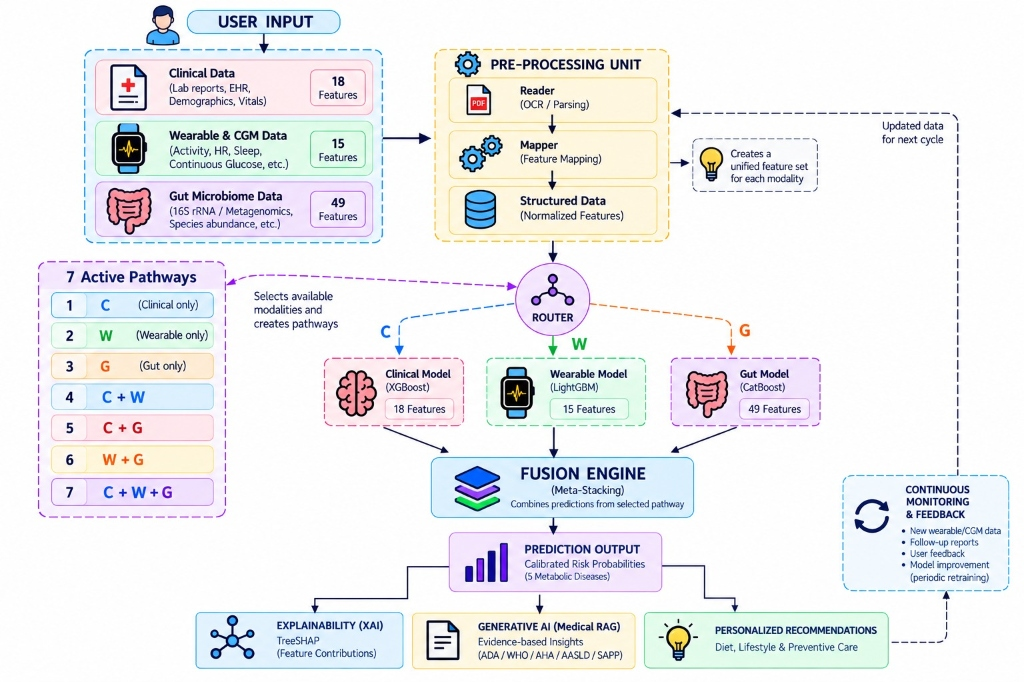
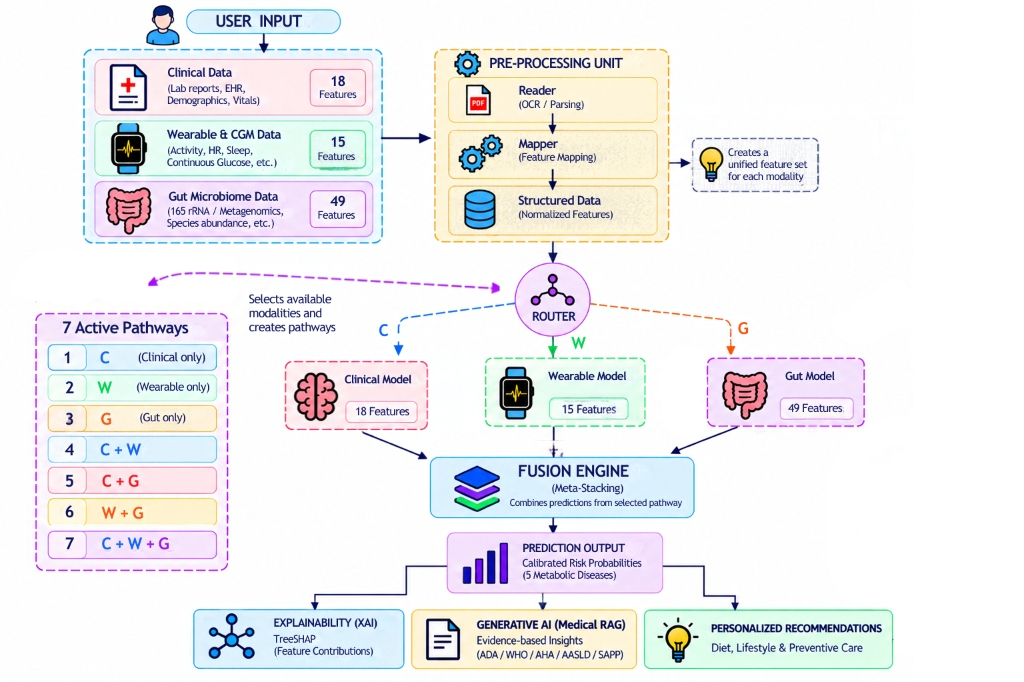
docs(paper): update final architecture diagram in publication and research audit manuscripts

diff --git a/research_audit/manuscript.tex b/research_audit/manuscript.tex
@@ -193,7 +193,8 @@ P7 (C+W+G) & Yes & Yes & Yes & Yes \\
 \begin{figure*}[htbp]
 \centering
 \includegraphics[width=\textwidth]{figures/architecture.png}
-\caption{TeleMed-M3 System Architecture. Note: The diagram depicts Gut Model — 50 Features and Calibrated Risk Probabilities; these represent the 49 predictive model features (derived from the 50 dimensions after excluding Other Taxa) and the Risk Probabilities as evaluated in the current protocol.}
+\caption{TeleMed-M3 System Architecture. End-to-end multimodal workflow illustrating preprocessing, dynamic 7-pathway routing, modality-specific expert classifiers (Clinical: 18 features, Wearable/CGM: 15 features, Gut Microbiome: 49 features), meta-stacking fusion engine, prediction output across 5 metabolic conditions, explainability (TreeSHAP), evidence-grounded Medical RAG, and personalized clinical recommendations.}
+\label{fig:arch}
 \end{figure*}
 
 \subsection{15 Expert Models}

diff --git a/publication/TeleMed_M3_Research_Paper_Final.md b/publication/TeleMed_M3_Research_Paper_Final.md
@@ -125,6 +125,9 @@ To facilitate rigorous model training, hyperparameter tuning, and final evaluati
 4.1 Overall Architecture
 TeleMed-M3 uses a modular probability-level fusion architecture designed to operate when one or more complete data modalities are unavailable. Patient inputs are partitioned into Clinical, Wearable/CGM, and Gut Microbiome blocks and processed by independent modality-specific expert models. The experts generate target-specific risk probabilities, which are subsequently combined through probability-level stacking. A dynamic routing mechanism selects the appropriate fusion pathway according to the modalities available for the patient, avoiding numerical imputation of an entirely unavailable modality block.
 
+![TeleMed-M3 System Architecture](overleaf_submission/figures/architecture.png)
+*Figure 1: End-to-End Multimodal System Architecture of the TeleMed-M3 Platform. Ingestion of Clinical (18 features), Wearable/CGM (15 features), and Gut Microbiome (49 features), preprocessing unit, dynamic 7-pathway routing across observed modalities, late probability-level meta-stacking fusion, 5-disease calibrated risk outputs, TreeSHAP explainability, generative Medical RAG decision support, and personalized interventions.*
+
 4.2 Modality-Specific Expert Models
 Three modality-specific expert groups are used for the five binary targets, resulting in 15 expert models. The final model for each modality-target combination was selected through model development and validation from candidate algorithms including Logistic Regression, XGBoost, LightGBM, CatBoost, and ExtraTrees. The selected models therefore vary according to the target and modality rather than using a single classifier for every expert.
 Each expert operates on its corresponding feature block. Internal preprocessing pipelines handle feature-level missing values within an available modality, using the preprocessing appropriate to the estimator. This should be distinguished from modality-level missingness, where an entire Clinical, Wearable/CGM, or Gut block is unavailable and is handled by the routing mechanism rather than numerical imputation.

diff --git a/publication/RESEARCH_PAPER_V4.md b/publication/RESEARCH_PAPER_V4.md
@@ -36,6 +36,10 @@ The exact positive-class prevalence rates for the five targets in the evaluation
 An earlier generator version applied post-label deterministic clinical clamping to diagnostic variables. This created target-feature leakage. The perfect Clinical discrimination in the clamped cohort was attributable to deterministic label-feature coupling and therefore was not interpretable as generalizable predictive performance. Consequently, the clamping logic was removed. The completely de-clamped cohort was used for all final experiments.
 
 ## 6. Methodology
+
+![TeleMed-M3 System Architecture](overleaf_submission/figures/architecture.png)
+*Figure 1: TeleMed-M3 System Architecture depicting 18 Clinical, 15 Wearable/CGM, and 49 Gut Microbiome features, dynamic 7-pathway routing, meta-stacking fusion, 5 metabolic risk predictions, TreeSHAP explainability, and Medical RAG decision support.*
+
 **A. Modality-specific experts:** Specialized models natively predicting based on C, W, or G.
 **B. Preprocessing Pipelines:** Ensuring identical treatment across training and inference.
 **C. OOF predictions:** Expert outputs for the training split used as meta-features.
